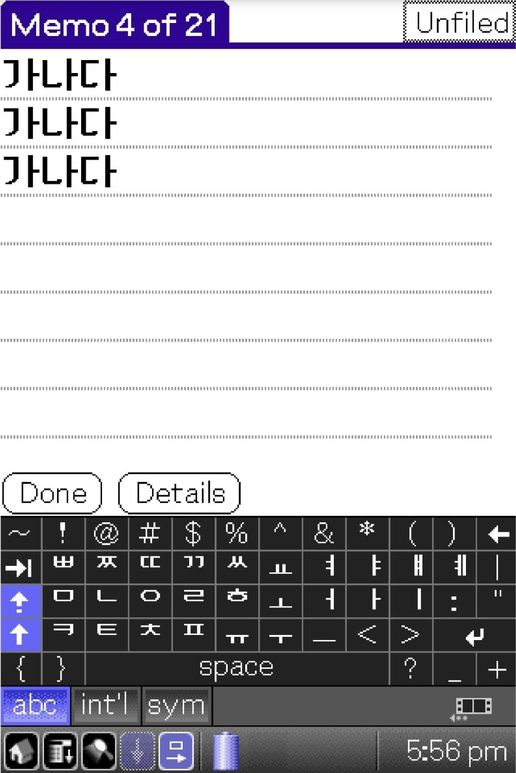
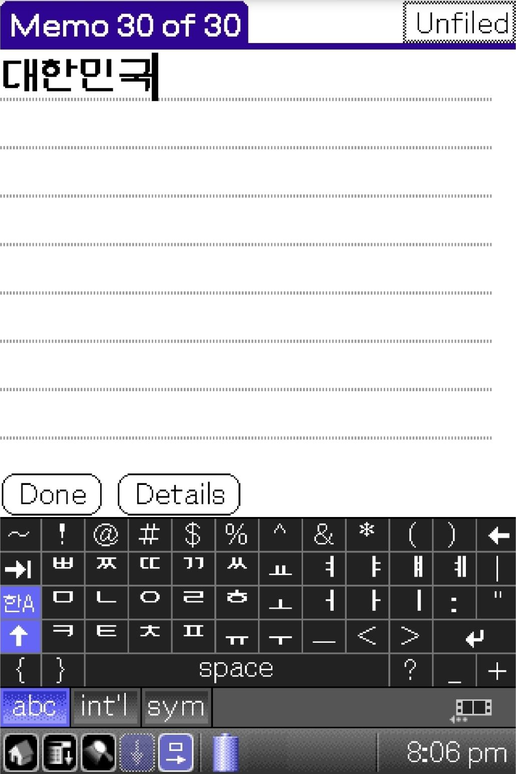
README: restructure for Sony keyboard Hangul (install A/B1/B2, usage section, new v50 capture with 한A key)
Claude-Session: https://claude.ai/code/session_0111EUgHmukks2KoNHTb7Lqc

diff --git a/tools/gen-readme-sony.py b/tools/gen-readme-sony.py
@@ -33,11 +33,11 @@ H = 168 + sh + 50 + 90
 img = Image.new('RGB', (W, H), BG)
 d = ImageDraw.Draw(img)
 d.text((40, 36), 'Sony 가상 키보드로 한글', font=H1, fill=INK)
-d.text((40, 104), 'MnHangul 하나, 리셋 없음 · 쉬프트 고정 = 한/영', font=H2, fill=SUB)
+d.text((40, 104), 'MnHangul 하나, 리셋 없음 · 한A 키 = 한/영', font=H2, fill=SUB)
 d.rectangle((40, 146, 110, 150), fill=ACCENT)
 
 y = 168
-caps = ['쉬프트 고정: 두벌식 자모', '+ Shift: 쌍자음']
+caps = ['한A 켜짐: 두벌식 자모', '+ Shift: 쌍자음']
 for i, s in enumerate(shots):
     x = 40 + i * (sw + 20)
     d.rectangle((x - 6, y - 6, x + sw + 5, y + sh + 5), fill=(48, 52, 54))
